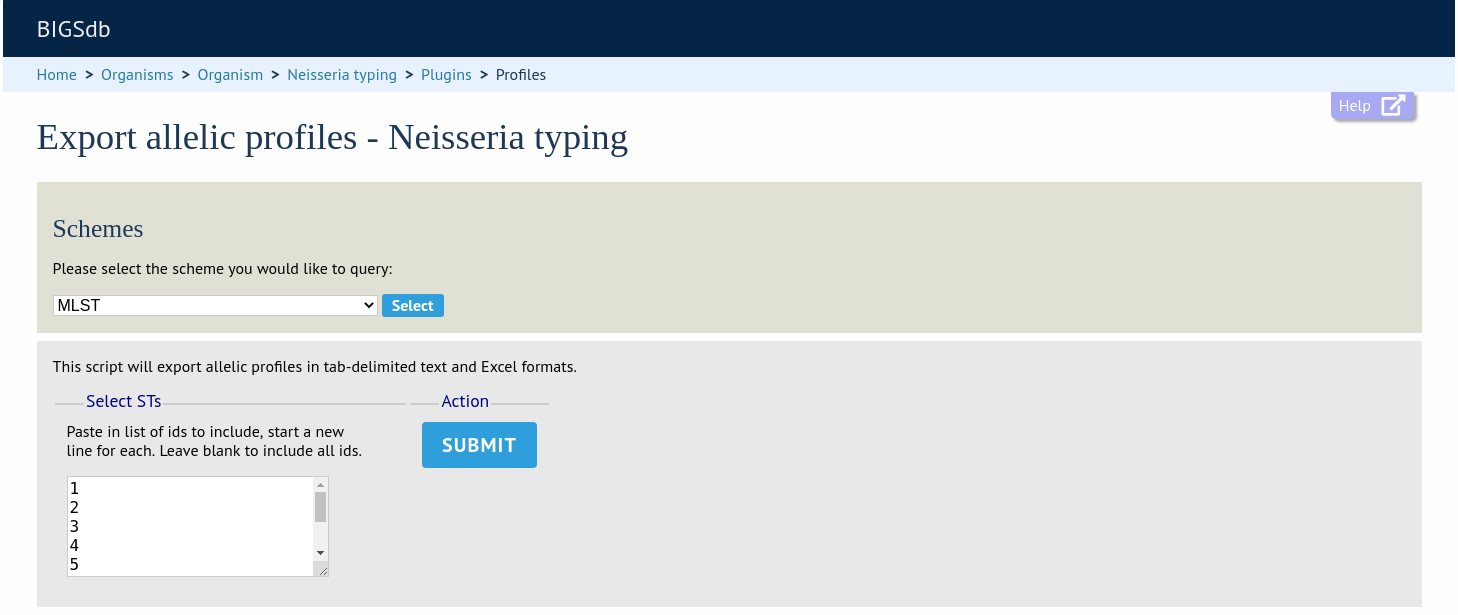
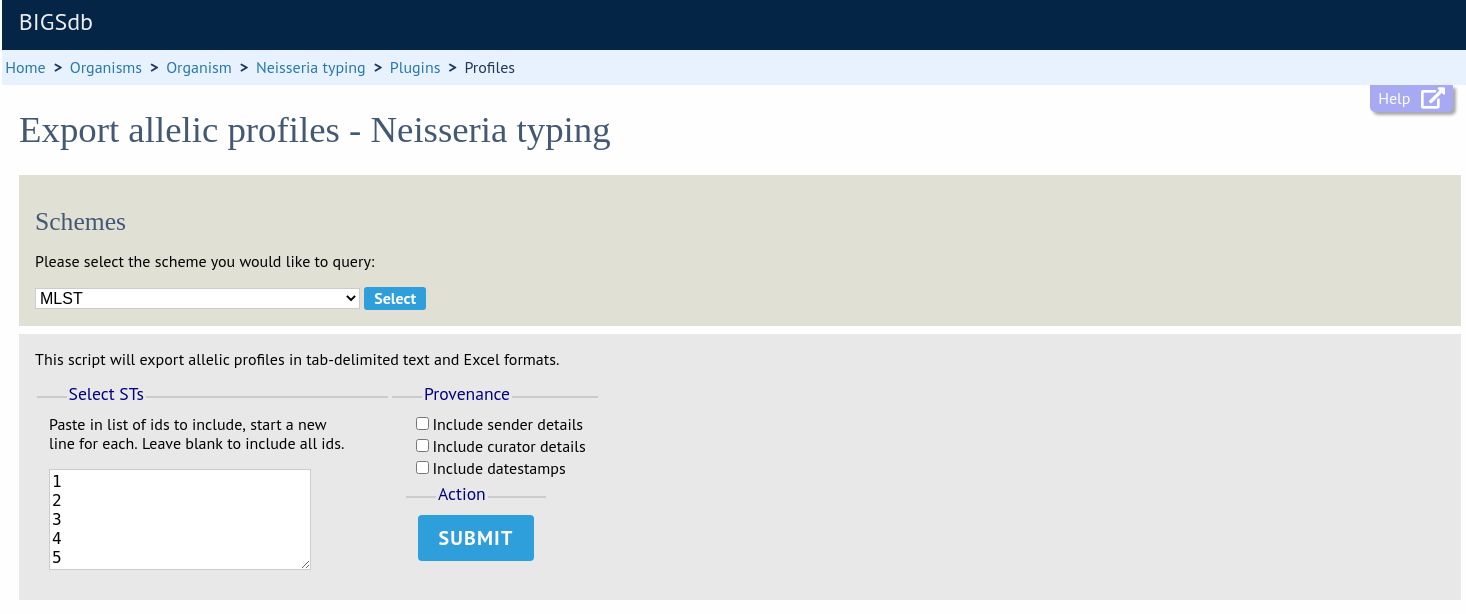
ProfileExport: Include provenance info.

diff --git a/data_export/profile_export.rst b/data_export/profile_export.rst
@@ -18,7 +18,8 @@ list of functions here may vary depending on the setup of the database.
 This will take you to a form with a list box in which the identifiers of the
 profile definitions you wish to include can be entered. Following a query,
 these values will be pre-entered. If the box is left empty then all profiles
-will be included.
+will be included. You can optionally include provenance information (sender, 
+curator and datestamps) by selecting the appropriate checkboxes.
 
 .. image:: /images/data_export/profile_export3.png
 
